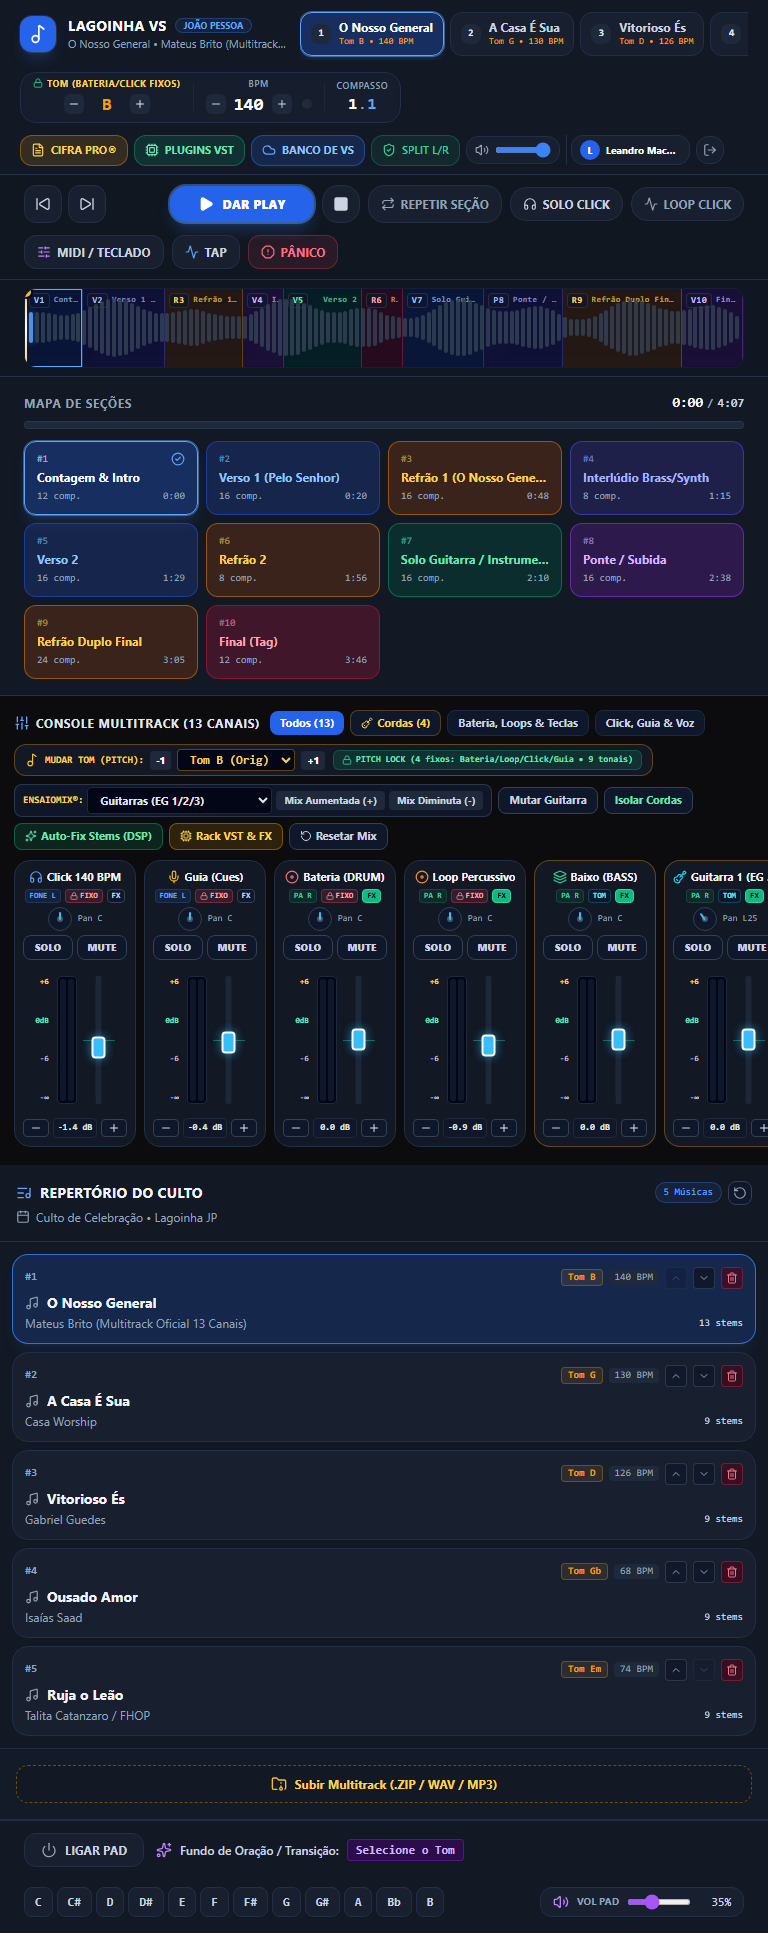
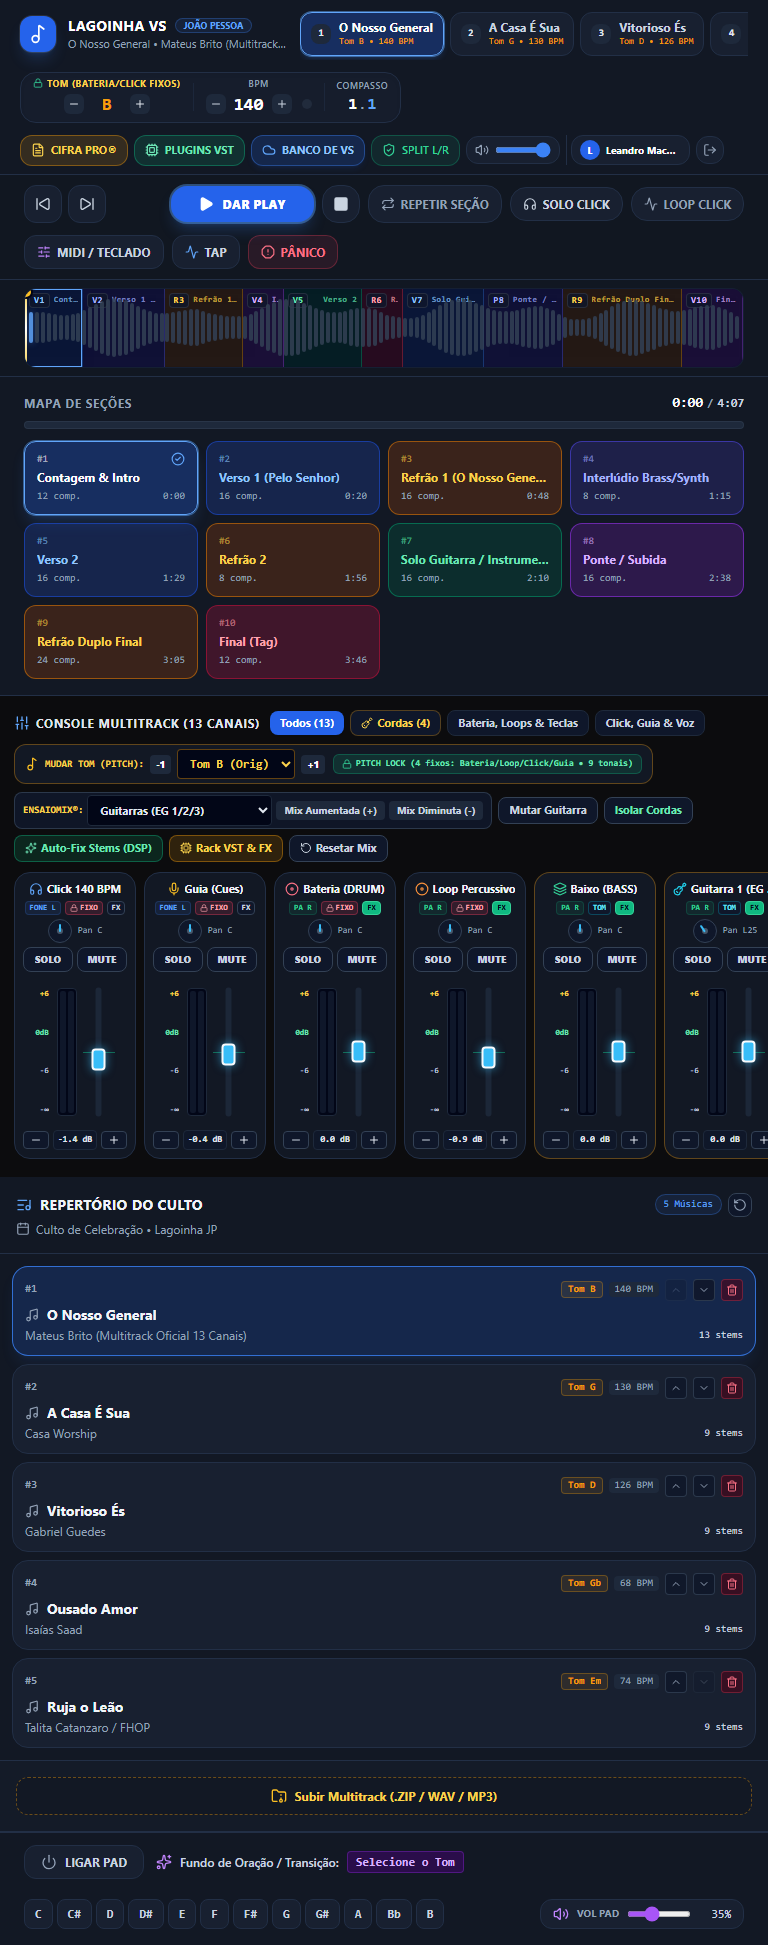
fix(ui): ensure 44px mobile touch targets on Key and EnsaioMix selects

diff --git a/src/presentation/components/MultitrackMixer.tsx b/src/presentation/components/MultitrackMixer.tsx
@@ -229,7 +229,7 @@ export const MultitrackMixer: React.FC<MultitrackMixerProps> = ({
                   value={currentKey}
                   onChange={(e) => handleSelectTargetKey(e.target.value)}
                   aria-label="Selecionar Tom da Música"
-                  className="bg-slate-950 text-amber-300 text-xs font-mono font-black rounded px-2 py-0.5 border border-amber-500/40 cursor-pointer"
+                  className="bg-slate-950 text-amber-300 text-xs font-mono font-black rounded px-2 py-1.5 min-h-[44px] sm:min-h-0 border border-amber-500/40 cursor-pointer"
                 >
                   {ALL_KEYS.map((k) => (
                     <option key={k} value={k}>
@@ -282,7 +282,7 @@ export const MultitrackMixer: React.FC<MultitrackMixerProps> = ({
                   value={ensaioTarget}
                   onChange={(e) => triggerEnsaioMix(e.target.value as StemType, ensaioMode)}
                   aria-label="Selecionar instrumento do EnsaioMix"
-                  className="bg-slate-950 text-slate-200 text-[11px] font-bold rounded px-2 py-1 min-h-[36px] sm:min-h-0 border border-slate-800"
+                  className="bg-slate-950 text-slate-200 text-[11px] font-bold rounded px-2 py-1.5 min-h-[44px] sm:min-h-0 border border-slate-800"
                 >
                   <option value="guitars">Guitarras (EG 1/2/3)</option>
                   <option value="violao">Violão Acústico</option>
